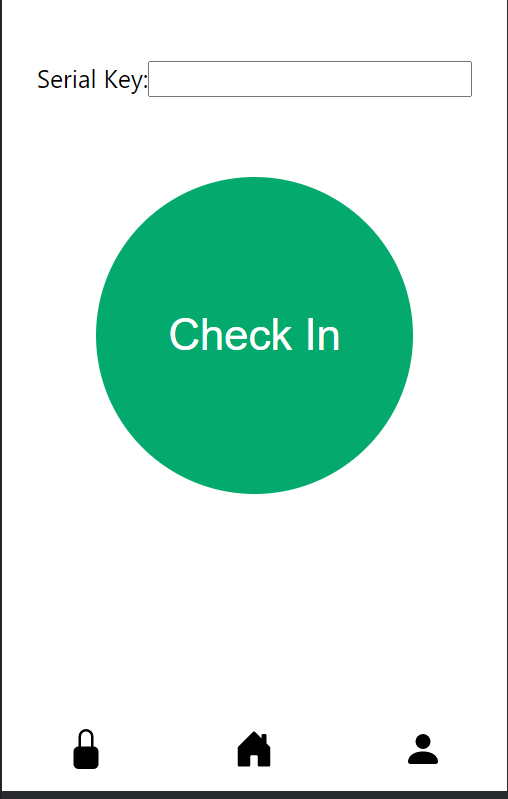
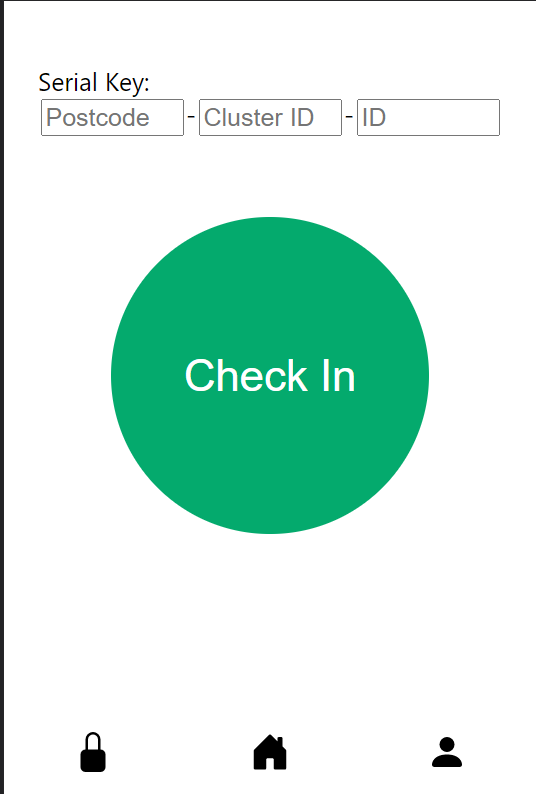
updated client README

diff --git a/client/src/Components/CheckInOut.js b/client/src/Components/CheckInOut.js
@@ -4,7 +4,6 @@ function CheckInOut() {
     const [checked, setChecked] = useState(false);
 
     const CheckIn = () => {
-        // hardcoded lock info rn
         const msg = {
             lock_postcode: tmpSerialKeyPostCode,
             lock_cluster_id: tmpSerialKeyCluster, 
@@ -21,7 +20,6 @@ function CheckInOut() {
     }
 
     const CheckOut = () => {
-        // hardcoded lock info rn
         const msg = {
             lock_postcode: serialKey.PostCode,
             lock_cluster_id: serialKey.Cluster, 

diff --git a/client/README.md b/client/README.md
@@ -10,7 +10,9 @@ npm start
 ```
 A webpage would be hosted on `http://localhost:3000/`. This is currently still in development mode. In the final product, separately starting up of the React dev Server would not be needed. 
 
-## Map / Home Page
+## Features 
+
+### Map / Home Page
 The webpage would show a map of the surrounding of the user's location with markers on bicycle lock clusters. A green pin indicates availability while a red pin indicates that all locks are used. <br/>
 ![image](img/map_markers.PNG)
 <br/>
@@ -18,20 +20,35 @@ Upon clicking onto the pin, details about the lock would be shown, including nam
 ![image](img/map_w_details.PNG)
 <br/>
 
-## Check In / Check Out Page
-The check in page has a text box for user to fill in the Serial Key number and a button to submit check in request. When the system detects the user had checked into a lock, the webpage would be displaying a red button to prompt user to check out instead. <br/>
-![image](img/check_in_out.PNG)
+### Check In / Check Out Page
+The check in page has 3 text boxes for user to fill in the Serial Key number (Postcode-Cluster ID-ID) and a button to submit check in request. Upon checking in, information on the Lock Serial Key will be send across HTTP to the server on `http://localhost:5000/checkin` <br/>
+![image](img/check_in_out.PNG) <br/>
+
+A greyed out "Checked" button indicates that the user has successfully check in into the lock <br/>
+![image](img/checked_in.PNG) <br/>
+
+When the lock detects the bicycle is removed, via the server, it would prompt the user to check out on the web app. This is indicated by the red "Check Out" button. The web-app asks for updates every second from the server on `http://localhost:5000/usrauthen` to know the status of the lock. <br/>
+![image](img/check_out.PNG) <br/>
+
 <br/>
 
-## Register Page
+### Register Page
 Allow users to register into the system by filling in information such as full name, username, email address and passward.
 ![image](img/register.PNG)
 <br/>
 
-## Menu Bar
+### Menu Bar
 The footer is a menu bar that allows user to jump to different page. The lock icon refers to the Check In Page, the home icon refers to the home page and the person icon refers to the register page.
+
+## TODO
+1. User authentication (log in) 
+    - send username when check in/check out
+    - add bike serial number (and send accross HTTP)
+2. Check in info stored on server instead of local
+3. Lock database
 
 ## Change Log
 27-Jan-2022 : initial commit <br/>
 08-Feb-2022 : added map page <br/>
-12-Feb-2022 : added check in out + register page. added router.
+12-Feb-2022 : added check in out + register page. added router. <br/>
+17-Feb-2022 : added HTTP communication with server on check in out page. <br/>
